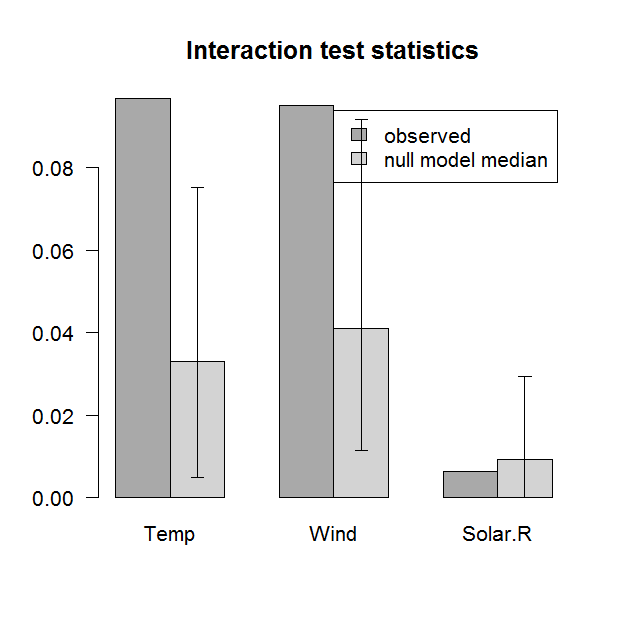
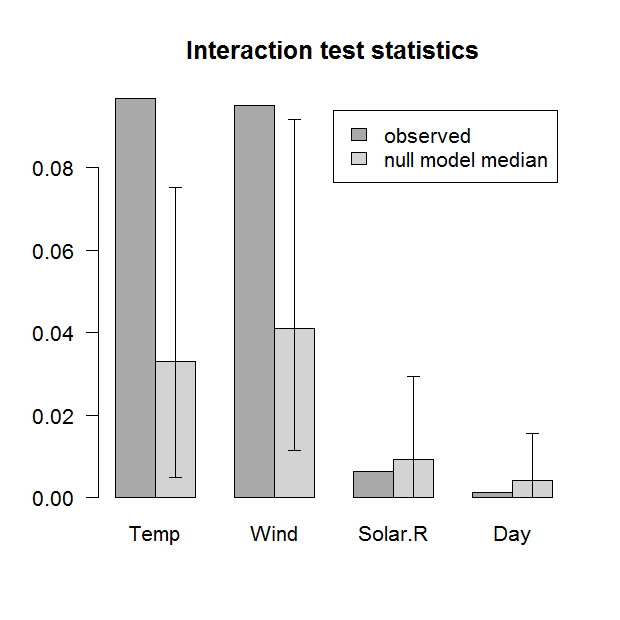
Minot fixed to readme

Changed region(s): [[0.3065, 0.1532, 0.8887, 0.8887], [0.2145, 0.1532, 0.3065, 0.8887]]

diff --git a/README.md b/README.md
@@ -88,7 +88,7 @@ imps <- importance(airq.ens, round = 4)
 
 ![](inst/README-figures/README-unnamed-chunk-6-1.png)
 
-The resulting plot reveals that Temperature and wind are most strongly associated with Ozone levels, while Solar.R and Day are somewhat, but much less strongly associated with Ozone levels. Variable Month is not included in the plotted variable importances, indicating that is not predictive of Ozone levels. The variable and baselearner importances are saved in `imps$varimps` and `imps$baseimps`, respectively.
+The resulting plot shows that Temperature and wind are most strongly associated with Ozone levels, while Solar.R and Day are somewhat, but much less strongly associated with Ozone levels. Variable Month is not included in the plotted variable importances, indicating that is not associate with Ozone levels. The variable and baselearner importances are saved in `imps$varimps` and `imps$baseimps`, respectively.
 
 We can generate predictions for new observations using the `predict` method:
 
@@ -128,29 +128,21 @@ airq.cv <- cvpre(airq.ens)
 #> $MAE
 #>       MAE        se 
 #> 13.186533  1.200747
-airq.cv$accuracy
-#> $MSE
-#>       MSE        se 
-#> 332.48191  72.23573 
-#> 
-#> $MAE
-#>       MAE        se 
-#> 13.186533  1.200747
 ```
 
-The cross-validated predictions, which can be used to compute alternative estimates of predictive accuracy, are saved in `airq.cv$cvpreds`.
+The results provide the mean squared error (MSE) and mean absolute error (MAE) with their respective standard errors. The cross-validated predictions, which can be used to compute alternative estimates of predictive accuracy, are saved in `airq.cv$cvpreds`.
 
 We can assess the presence of input variable interactions using the `interact()` and `bsnullinteract()` funtions:
 
 ``` r
 set.seed(44)
 nullmods <- bsnullinteract(airq.ens)
-int <- interact(airq.ens, nullmods = nullmods, c("Temp", "Wind", "Solar.R"))
+int <- interact(airq.ens, nullmods = nullmods)
 ```
 
 ![](inst/README-figures/README-unnamed-chunk-11-1.png)
 
-The plot indicates that Temperature and wind may be involved in interactions, as their observed interaction strengths (darker grey) exceed the upper limit of the 90% confidence interval of the test statistics in the null interaction models (lighter grey with error bars). The plot indicates that Solar.R is not involved in any interactions. Note that computation of null interaction models is computationally intensive. A more reliable result can be obtained by computing a larger number of boostrapped null interaction datasets, by setting the `nsamp` argument of function `bsnullinteract()` to a larger value (e.g., 100).
+The plot with variable interaction strengths indicates that Temperature and Wind may be involved in interactions, as their observed interaction strengths (darker grey) exceed the upper limit of the 90% confidence interval of interaction stengths in the null interaction models (lighter grey with error bars). The plot indicates that Solar.R and Day are not involved in any interactions. Note that computation of null interaction models is computationally intensive. A more reliable result can be obtained by computing a larger number of boostrapped null interaction datasets, by setting the `nsamp` argument of function `bsnullinteract()` to a larger value (e.g., 100).
 
 We can check assess correlations between the baselearners using the `corplot()` function:
 
@@ -163,7 +155,7 @@ corplot(airq.ens)
 Including hinge functions (multivariate adaptive regression splines)
 --------------------------------------------------------------------
 
-More complex prediction ensembles can be obtained using the `gpe()` function. The abbreviation gpe stands for generalized prediction ensembles, which may also include hinge functions of the predictor variables as described in Friedman (1991), in addition to rules and/or linear terms. Addition of such hinge functions may further improve predictive accuracy. See the following example:
+More complex prediction ensembles can be obtained using the `gpe()` function. Abbreviation gpe stands for generalized prediction ensembles, which can also include hinge functions of the predictor variables as described in Friedman (1991), in addition to rules and/or linear terms. Addition of hinge functions may further improve predictive accuracy. See the following example:
 
 ``` r
 set.seed(42)
